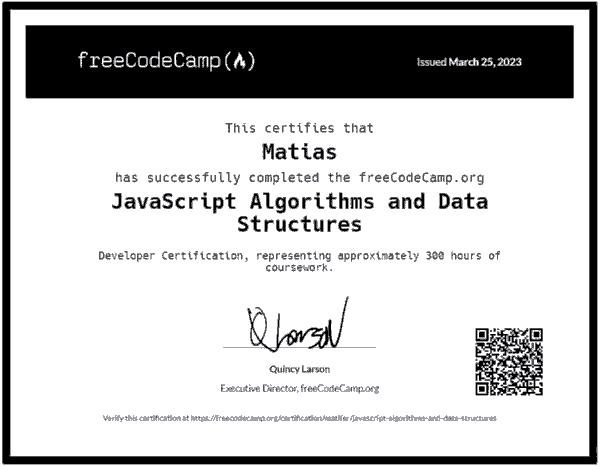
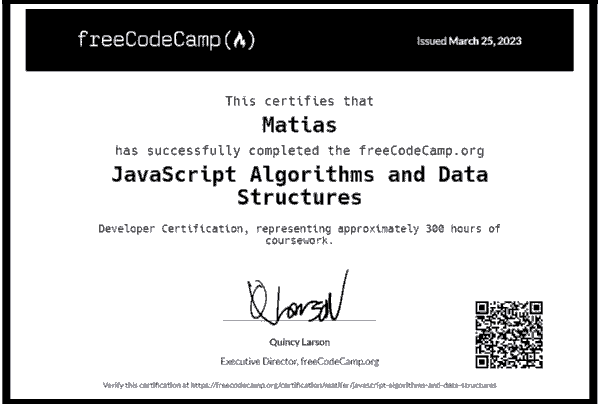
Standardized image sizes

diff --git a/index.html b/index.html
@@ -255,7 +255,6 @@
       <h2>Certificaciones</h2>
       <div class="pec">
         <div class="card">
-          <h4>Diseño Web Responsivo</h4>
           <img
             src="certificado-responsive-web-design.png"
             alt="Certificado responsive web design"
@@ -268,7 +267,6 @@
         </div>
         <div class="space"></div>
         <div class="card">
-          <h4>Algoritmos JS y Estructuras de Datos</h4>
           <img
             src="certificado-javascript-algorithms-and-data-structures.png"
             alt="Certificado javascript algorithms and data structures"
@@ -281,7 +279,6 @@
         </div>
         <div class="space"></div>
         <div class="card">
-          <h4>Librerías de Desarrollo de Interfaz</h4>
           <img
             src="front-end-development-libraries.png"
             alt="Front End Development Libraries certificate"
